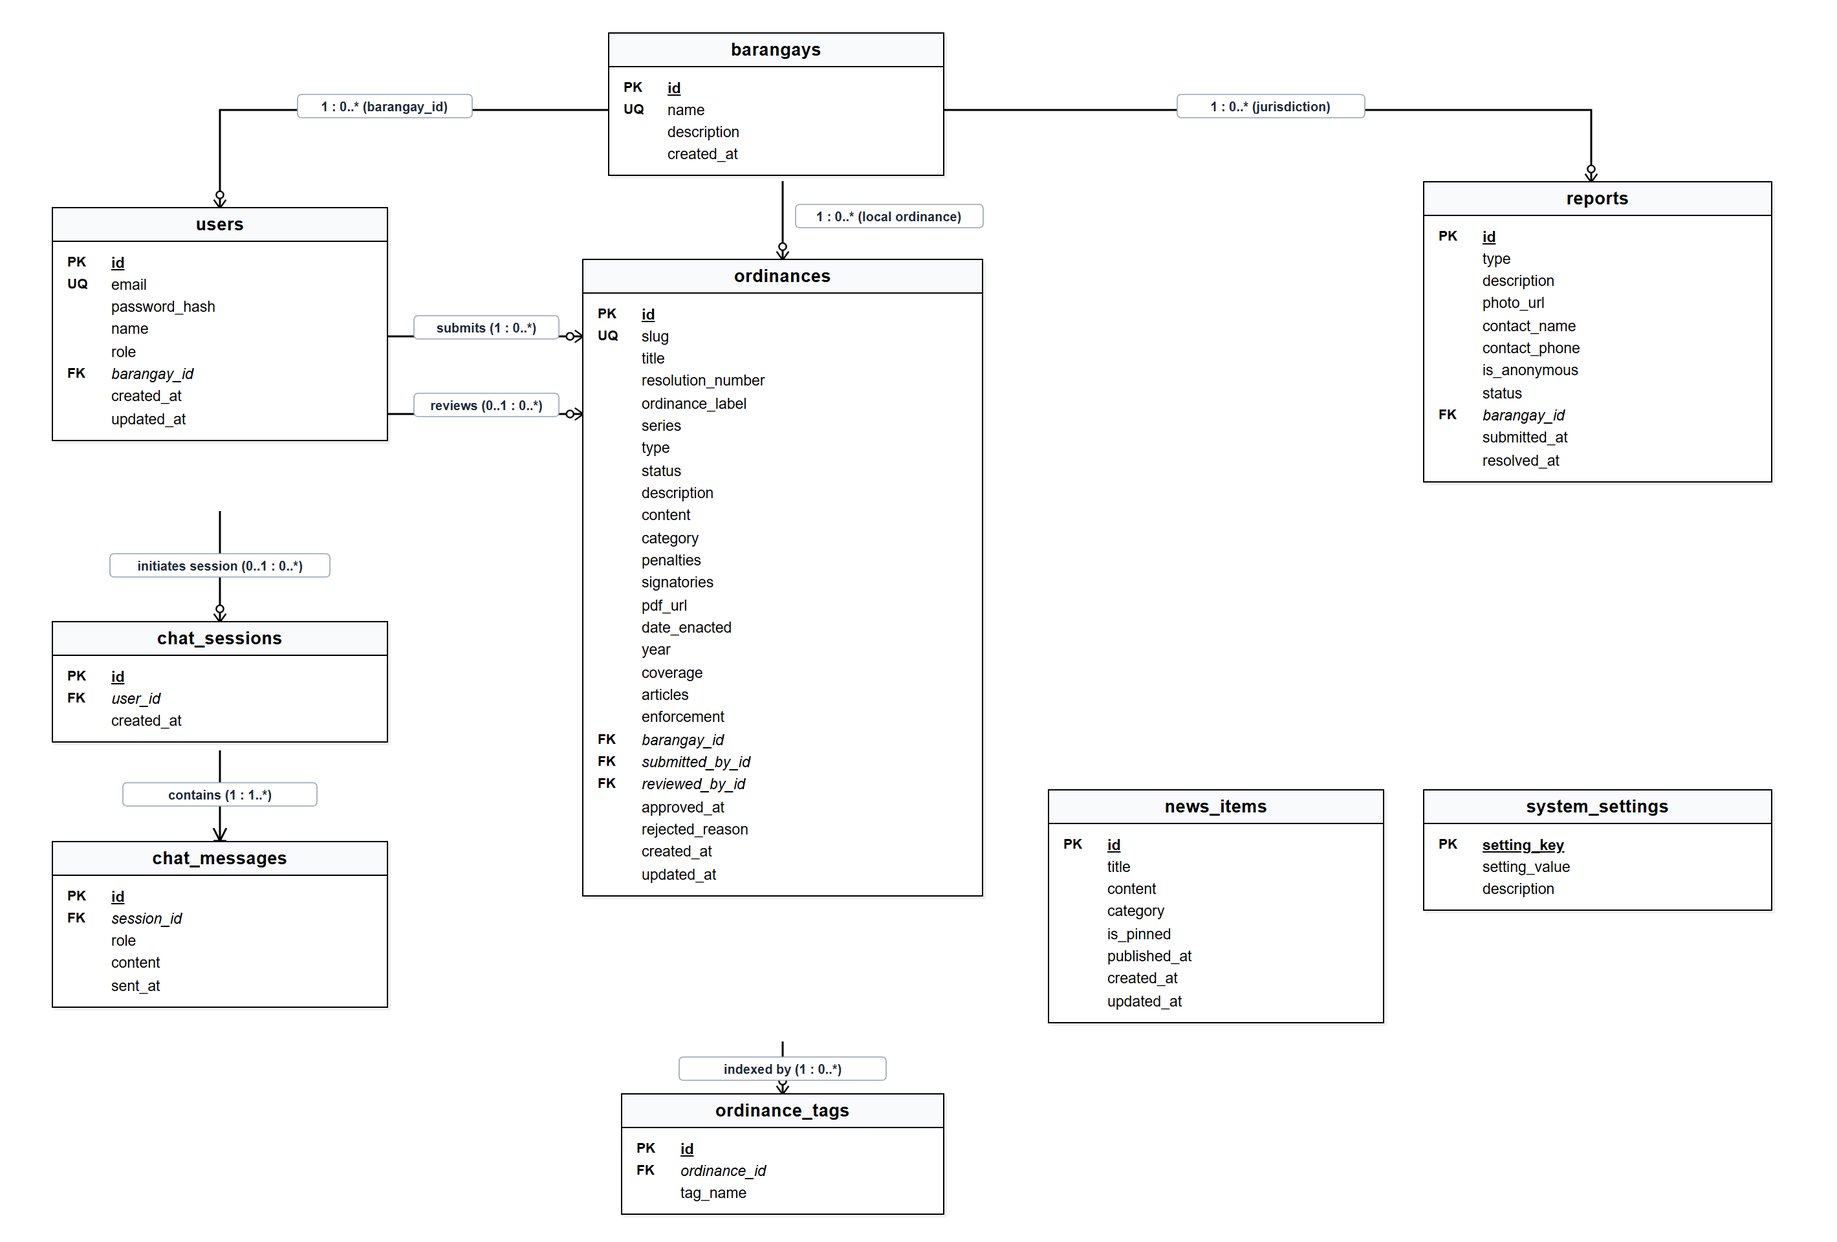
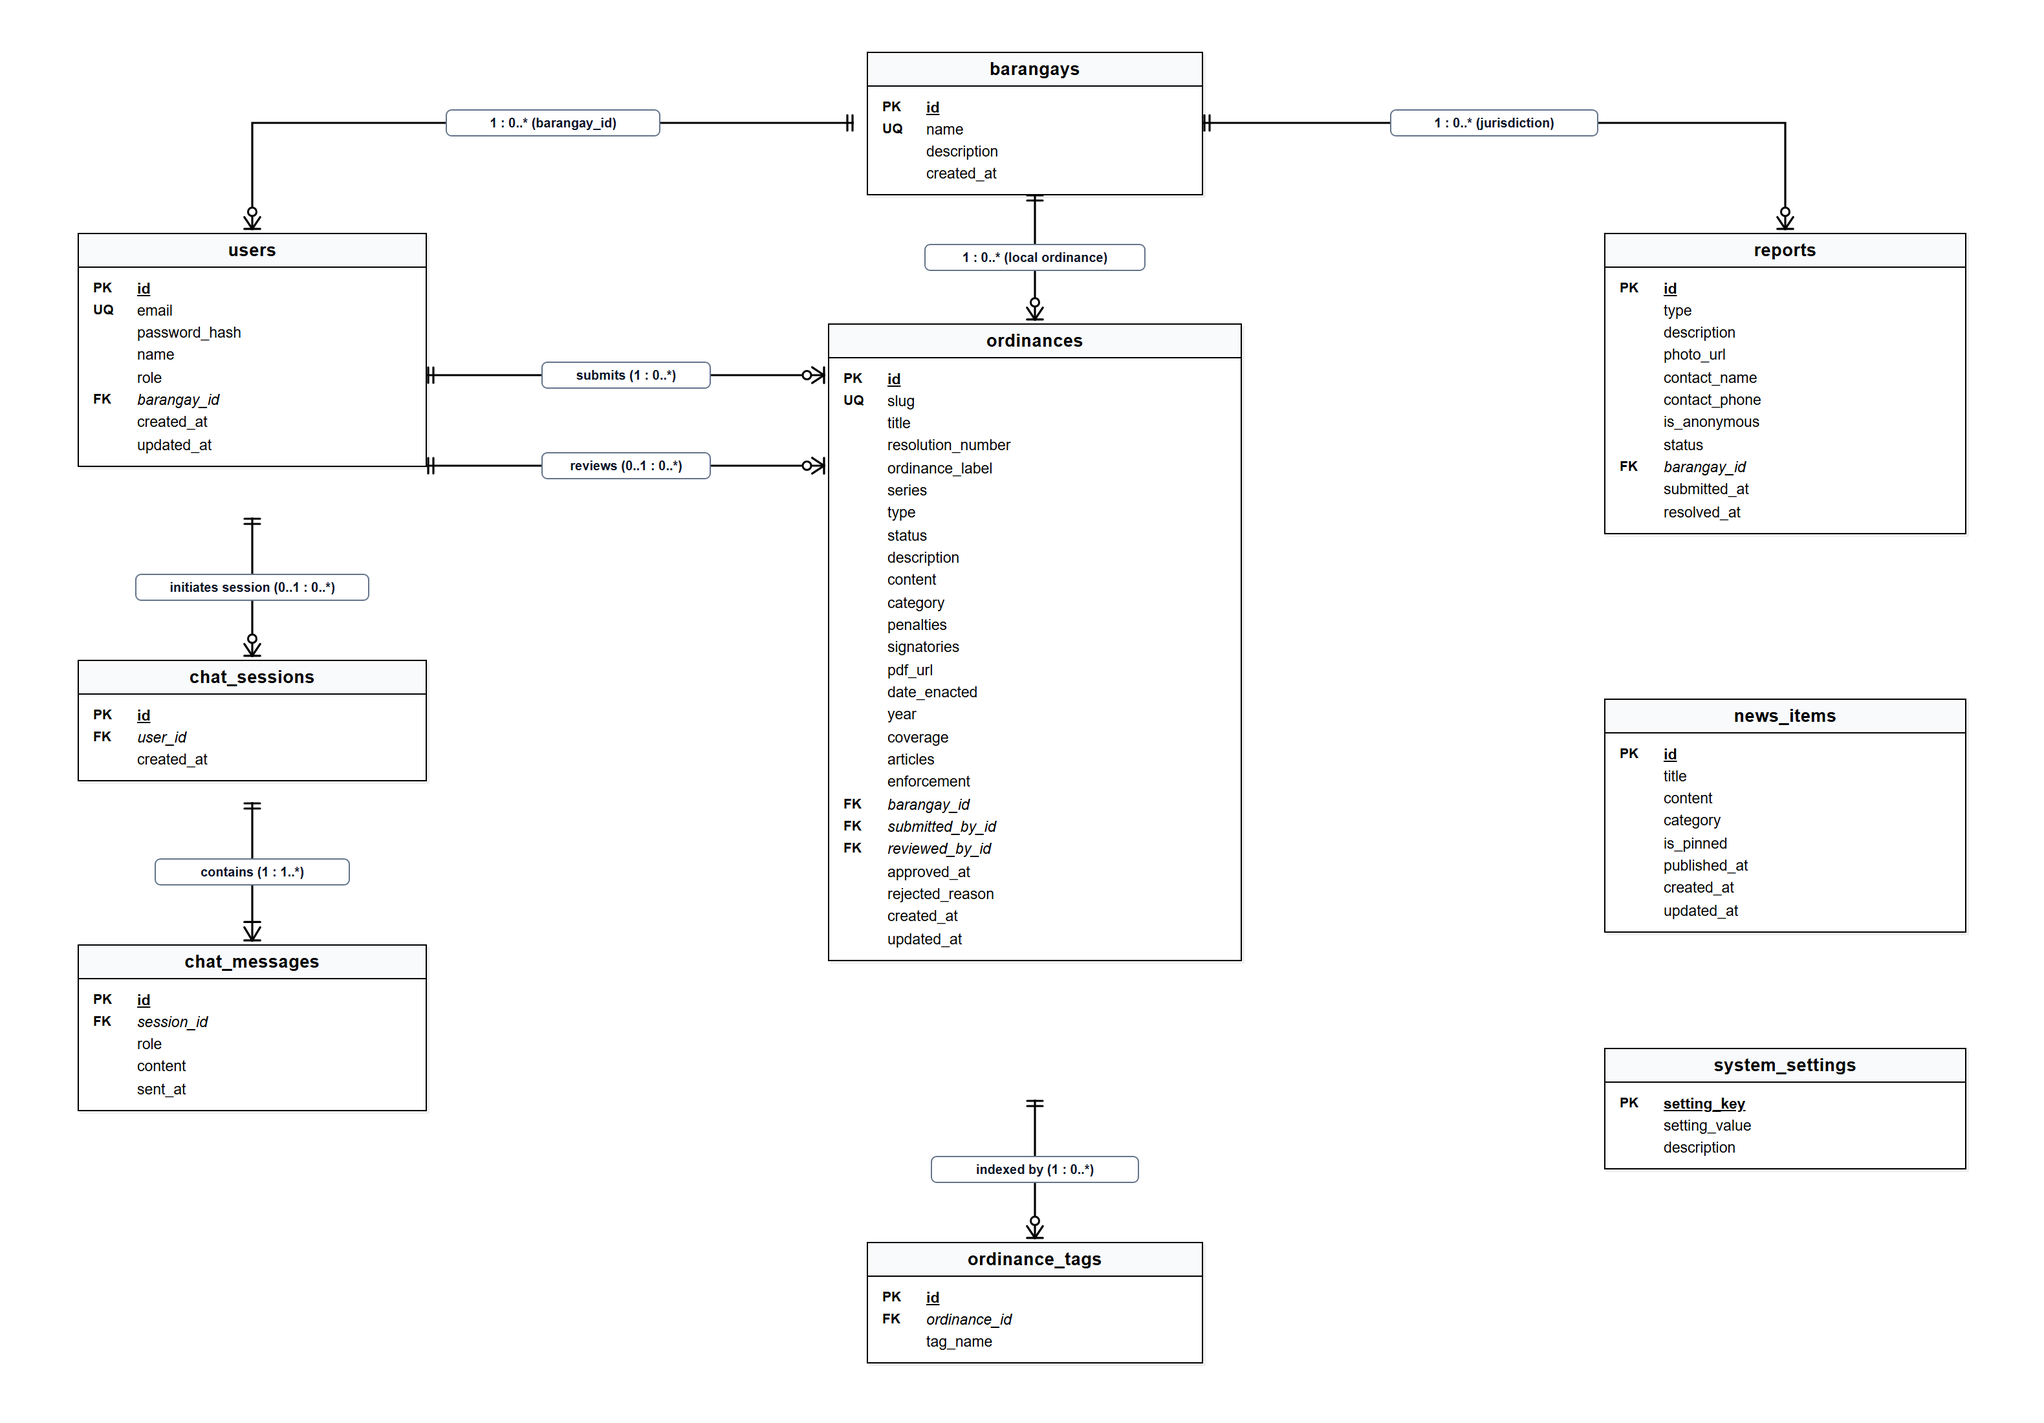
fix(erd): fix cut-off arrows and align action badges to arrow midpoints

diff --git a/docs/normalization/html/00_erd.html b/docs/normalization/html/00_erd.html
@@ -12,7 +12,7 @@
     body {
       background-color: #ffffff;
       font-family: Arial, "Helvetica Neue", Helvetica, sans-serif;
-      padding: 25px;
+      padding: 30px;
       display: flex;
       justify-content: center;
       align-items: center;
@@ -20,17 +20,17 @@
     }
     .erd-container {
       position: relative;
-      width: 1420px;
-      height: 960px;
+      width: 1580px;
+      height: 1100px;
       background: #ffffff;
     }
     svg.connector-layer {
       position: absolute;
       top: 0;
       left: 0;
-      width: 1420px;
-      height: 960px;
-      z-index: 1;
+      width: 1580px;
+      height: 1100px;
+      z-index: 5; /* Render ON TOP of entity boxes so arrows are never cut off */
       pointer-events: none;
     }
     .entity-box {
@@ -76,15 +76,16 @@
       font-style: italic;
     }
     .rel-badge {
+      font-family: Arial, sans-serif;
       font-size: 10px;
       font-weight: bold;
-      fill: #1e293b;
+      fill: #0f172a;
     }
     .rel-bg {
       fill: #ffffff;
-      stroke: #94a3b8;
-      stroke-width: 0.8;
-      rx: 3px;
+      stroke: #64748b;
+      stroke-width: 1;
+      rx: 4px;
     }
   </style>
 </head>
@@ -92,73 +93,128 @@
 
   <div class="erd-container">
 
-    <!-- SVG CONNECTOR LAYER -->
+    <!-- SVG CONNECTOR LAYER (z-index: 5) -->
     <svg class="connector-layer" xmlns="http://www.w3.org/2000/svg">
       <defs>
-        <!-- Marker: Arrow / Crow's Foot -->
-        <marker id="crowsfoot" viewBox="0 0 12 12" refX="10" refY="6" markerWidth="8" markerHeight="8" orient="auto">
-          <path d="M 0 1 L 10 6 L 0 11 M 10 1 L 10 11" fill="none" stroke="#000000" stroke-width="1.4" />
+        <!-- One-and-only-one: || (start marker) -->
+        <marker id="one-start" viewBox="0 0 16 16" refX="2" refY="8" markerWidth="10" markerHeight="10" orient="auto" overflow="visible">
+          <path d="M 3 2 L 3 14 M 7 2 L 7 14" fill="none" stroke="#000000" stroke-width="1.6" stroke-linecap="round" />
         </marker>
-        <marker id="one-one" viewBox="0 0 10 12" refX="2" refY="6" markerWidth="7" markerHeight="7" orient="auto">
-          <path d="M 2 1 L 2 11 M 6 1 L 6 11" fill="none" stroke="#000000" stroke-width="1.4" />
+
+        <!-- Zero-to-Many: Circle + Crow's foot (end marker) -->
+        <marker id="zero-many-end" viewBox="0 0 22 16" refX="19" refY="8" markerWidth="14" markerHeight="11" orient="auto" overflow="visible">
+          <circle cx="5" cy="8" r="3.2" fill="#ffffff" stroke="#000000" stroke-width="1.5" />
+          <path d="M 9 2 L 18 8 L 9 14 M 18 2 L 18 14" fill="none" stroke="#000000" stroke-width="1.6" stroke-linecap="round" stroke-linejoin="round" />
         </marker>
-        <marker id="zero-many" viewBox="0 0 16 12" refX="14" refY="6" markerWidth="10" markerHeight="10" orient="auto">
-          <circle cx="4" cy="6" r="3" fill="#ffffff" stroke="#000000" stroke-width="1.3" />
-          <path d="M 8 1 L 15 6 L 8 11 M 15 1 L 15 11" fill="none" stroke="#000000" stroke-width="1.3" />
+
+        <!-- One-to-Many: Bar + Crow's foot (end marker) -->
+        <marker id="one-many-end" viewBox="0 0 22 16" refX="19" refY="8" markerWidth="14" markerHeight="11" orient="auto" overflow="visible">
+          <path d="M 4 2 L 4 14 M 8 2 L 18 8 L 8 14 M 18 2 L 18 14" fill="none" stroke="#000000" stroke-width="1.6" stroke-linecap="round" stroke-linejoin="round" />
         </marker>
       </defs>
 
-      <!-- 1. BARANGAYS to USERS (1 : 0..*) -->
-      <!-- From (470, 85) -> (170, 85) -> (170, 160) -->
-      <path d="M 470 85 L 170 85 L 170 160" fill="none" stroke="#000000" stroke-width="1.5" marker-end="url(#zero-many)" />
-      <rect x="230" y="73" width="135" height="18" class="rel-bg" />
-      <text x="297" y="86" text-anchor="middle" class="rel-badge">1 : 0..* (barangay_id)</text>
+      <!-- ==========================================
+           1. BARANGAYS to USERS
+           From (660, 95) -> (195, 95) -> (195, 178)
+           Horizontal gap: 660 to 195. Midpoint = 427.5
+           ========================================== -->
+      <path d="M 660 95 L 195 95 L 195 178" fill="none" stroke="#000000" stroke-width="1.6" marker-start="url(#one-start)" marker-end="url(#zero-many-end)" />
+      <!-- Centered Badge on Horizontal Segment at (427.5, 95) -->
+      <g>
+        <rect x="345" y="85" width="165" height="20" class="rel-bg" />
+        <text x="427.5" y="95" dominant-baseline="central" text-anchor="middle" class="rel-badge">1 : 0..* (barangay_id)</text>
+      </g>
 
-      <!-- 2. BARANGAYS to ORDINANCES (1 : 0..*) -->
-      <!-- From (605, 140) -> (605, 200) -->
-      <path d="M 605 140 L 605 200" fill="none" stroke="#000000" stroke-width="1.5" marker-end="url(#zero-many)" />
-      <rect x="615" y="158" width="145" height="18" class="rel-bg" />
-      <text x="687" y="171" text-anchor="middle" class="rel-badge">1 : 0..* (local ordinance)</text>
+      <!-- ==========================================
+           2. BARANGAYS to ORDINANCES
+           From (800, 150) -> (800, 248)
+           Vertical line. Midpoint = 199
+           ========================================== -->
+      <path d="M 800 150 L 800 248" fill="none" stroke="#000000" stroke-width="1.6" marker-start="url(#one-start)" marker-end="url(#zero-many-end)" />
+      <!-- Centered Badge at (800, 199) -->
+      <g>
+        <rect x="715" y="189" width="170" height="20" class="rel-bg" />
+        <text x="800" y="199" dominant-baseline="central" text-anchor="middle" class="rel-badge">1 : 0..* (local ordinance)</text>
+      </g>
 
-      <!-- 3. BARANGAYS to REPORTS (1 : 0..*) -->
-      <!-- From (730, 85) -> (1230, 85) -> (1230, 140) -->
-      <path d="M 730 85 L 1230 85 L 1230 140" fill="none" stroke="#000000" stroke-width="1.5" marker-end="url(#zero-many)" />
-      <rect x="910" y="73" width="145" height="18" class="rel-bg" />
-      <text x="982" y="86" text-anchor="middle" class="rel-badge">1 : 0..* (jurisdiction)</text>
+      <!-- ==========================================
+           3. BARANGAYS to REPORTS
+           From (930, 95) -> (1380, 95) -> (1380, 178)
+           Horizontal gap: 930 to 1380. Midpoint = 1155
+           ========================================== -->
+      <path d="M 930 95 L 1380 95 L 1380 178" fill="none" stroke="#000000" stroke-width="1.6" marker-start="url(#one-start)" marker-end="url(#zero-many-end)" />
+      <!-- Centered Badge at (1155, 95) -->
+      <g>
+        <rect x="1075" y="85" width="160" height="20" class="rel-bg" />
+        <text x="1155" y="95" dominant-baseline="central" text-anchor="middle" class="rel-badge">1 : 0..* (jurisdiction)</text>
+      </g>
 
-      <!-- 4. USERS to ORDINANCES [submits] (1 : 0..*) -->
-      <!-- From (300, 260) -> (450, 260) -->
-      <path d="M 300 260 L 450 260" fill="none" stroke="#000000" stroke-width="1.5" marker-end="url(#zero-many)" />
-      <rect x="320" y="244" width="112" height="18" class="rel-bg" />
-      <text x="376" y="257" text-anchor="middle" class="rel-badge">submits (1 : 0..*)</text>
+      <!-- ==========================================
+           4. USERS to ORDINANCES [submits]
+           From (330, 290) -> (638, 290)
+           Horizontal line. Gap = 330 to 638. Midpoint = 484
+           ========================================== -->
+      <path d="M 330 290 L 638 290" fill="none" stroke="#000000" stroke-width="1.6" marker-start="url(#one-start)" marker-end="url(#zero-many-end)" />
+      <!-- Centered Badge at (484, 290) -->
+      <g>
+        <rect x="419" y="280" width="130" height="20" class="rel-bg" />
+        <text x="484" y="290" dominant-baseline="central" text-anchor="middle" class="rel-badge">submits (1 : 0..*)</text>
+      </g>
 
-      <!-- 5. USERS to ORDINANCES [reviews] (1 : 0..*) -->
-      <!-- From (300, 320) -> (450, 320) -->
-      <path d="M 300 320 L 450 320" fill="none" stroke="#000000" stroke-width="1.5" marker-end="url(#zero-many)" />
-      <rect x="320" y="304" width="112" height="18" class="rel-bg" />
-      <text x="376" y="317" text-anchor="middle" class="rel-badge">reviews (0..1 : 0..*)</text>
+      <!-- ==========================================
+           5. USERS to ORDINANCES [reviews]
+           From (330, 360) -> (638, 360)
+           Horizontal line. Gap = 330 to 638. Midpoint = 484
+           ========================================== -->
+      <path d="M 330 360 L 638 360" fill="none" stroke="#000000" stroke-width="1.6" marker-start="url(#one-start)" marker-end="url(#zero-many-end)" />
+      <!-- Centered Badge at (484, 360) -->
+      <g>
+        <rect x="419" y="350" width="130" height="20" class="rel-bg" />
+        <text x="484" y="360" dominant-baseline="central" text-anchor="middle" class="rel-badge">reviews (0..1 : 0..*)</text>
+      </g>
 
-      <!-- 6. USERS to CHAT_SESSIONS (0..1 : 0..*) -->
-      <!-- From (170, 395) -> (170, 480) -->
-      <path d="M 170 395 L 170 480" fill="none" stroke="#000000" stroke-width="1.5" marker-end="url(#zero-many)" />
-      <rect x="85" y="428" width="170" height="18" class="rel-bg" />
-      <text x="170" y="441" text-anchor="middle" class="rel-badge">initiates session (0..1 : 0..*)</text>
+      <!-- ==========================================
+           6. USERS to CHAT_SESSIONS [initiates]
+           From (195, 400) -> (195, 508)
+           Vertical line. Gap = 400 to 508. Midpoint = 454
+           ========================================== -->
+      <path d="M 195 400 L 195 508" fill="none" stroke="#000000" stroke-width="1.6" marker-start="url(#one-start)" marker-end="url(#zero-many-end)" />
+      <!-- Centered Badge at (195, 454) -->
+      <g>
+        <rect x="105" y="444" width="180" height="20" class="rel-bg" />
+        <text x="195" y="454" dominant-baseline="central" text-anchor="middle" class="rel-badge">initiates session (0..1 : 0..*)</text>
+      </g>
 
-      <!-- 7. CHAT_SESSIONS to CHAT_MESSAGES (1 : 1..*) -->
-      <!-- From (170, 580) -> (170, 650) -->
-      <path d="M 170 580 L 170 650" fill="none" stroke="#000000" stroke-width="1.5" marker-end="url(#crowsfoot)" />
-      <rect x="95" y="605" width="150" height="18" class="rel-bg" />
-      <text x="170" y="618" text-anchor="middle" class="rel-badge">contains (1 : 1..*)</text>
+      <!-- ==========================================
+           7. CHAT_SESSIONS to CHAT_MESSAGES [contains]
+           From (195, 620) -> (195, 728)
+           Vertical line. Gap = 620 to 728. Midpoint = 674
+           ========================================== -->
+      <path d="M 195 620 L 195 728" fill="none" stroke="#000000" stroke-width="1.6" marker-start="url(#one-start)" marker-end="url(#one-many-end)" />
+      <!-- Centered Badge at (195, 674) -->
+      <g>
+        <rect x="120" y="664" width="150" height="20" class="rel-bg" />
+        <text x="195" y="674" dominant-baseline="central" text-anchor="middle" class="rel-badge">contains (1 : 1..*)</text>
+      </g>
 
-      <!-- 8. ORDINANCES to ORDINANCE_TAGS (1 : 0..*) -->
-      <!-- From (605, 805) -> (605, 845) -->
-      <path d="M 605 805 L 605 845" fill="none" stroke="#000000" stroke-width="1.5" marker-end="url(#zero-many)" />
-      <rect x="525" y="817" width="160" height="18" class="rel-bg" />
-      <text x="605" y="830" text-anchor="middle" class="rel-badge">indexed by (1 : 0..*)</text>
+      <!-- ==========================================
+           8. ORDINANCES to ORDINANCE_TAGS [indexed by]
+           From (800, 850) -> (800, 958)
+           Vertical line. Gap = 850 to 958. Midpoint = 904
+           ========================================== -->
+      <path d="M 800 850 L 800 958" fill="none" stroke="#000000" stroke-width="1.6" marker-start="url(#one-start)" marker-end="url(#zero-many-end)" />
+      <!-- Centered Badge at (800, 904) -->
+      <g>
+        <rect x="720" y="894" width="160" height="20" class="rel-bg" />
+        <text x="800" y="904" dominant-baseline="central" text-anchor="middle" class="rel-badge">indexed by (1 : 0..*)</text>
+      </g>
     </svg>
 
-    <!-- ENTITY 1: BARANGAYS (Center Top) -->
-    <div class="entity-box" style="left: 470px; top: 25px; width: 260px;">
+    <!-- ==========================================
+         ENTITY 1: BARANGAYS (Top Center)
+         left: 670px, top: 40px, width: 260px, height: 110px
+         ========================================== -->
+    <div class="entity-box" style="left: 670px; top: 40px; width: 260px;">
       <div class="entity-header">barangays</div>
       <div class="entity-body">
         <div class="row"><div class="key-col">PK</div><div class="attr-col pk">id</div></div>
@@ -168,8 +224,11 @@
       </div>
     </div>
 
-    <!-- ENTITY 2: USERS (Left Top) -->
-    <div class="entity-box" style="left: 40px; top: 160px; width: 260px;">
+    <!-- ==========================================
+         ENTITY 2: USERS (Left Upper)
+         left: 60px, top: 180px, width: 270px, height: 220px
+         ========================================== -->
+    <div class="entity-box" style="left: 60px; top: 180px; width: 270px;">
       <div class="entity-header">users</div>
       <div class="entity-body">
         <div class="row"><div class="key-col">PK</div><div class="attr-col pk">id</div></div>
@@ -183,8 +242,11 @@
       </div>
     </div>
 
-    <!-- ENTITY 3: ORDINANCES (Center Middle) -->
-    <div class="entity-box" style="left: 450px; top: 200px; width: 310px;">
+    <!-- ==========================================
+         ENTITY 3: ORDINANCES (Center Middle)
+         left: 640px, top: 250px, width: 320px, height: 600px
+         ========================================== -->
+    <div class="entity-box" style="left: 640px; top: 250px; width: 320px;">
       <div class="entity-header">ordinances</div>
       <div class="entity-body">
         <div class="row"><div class="key-col">PK</div><div class="attr-col pk">id</div></div>
@@ -216,8 +278,11 @@
       </div>
     </div>
 
-    <!-- ENTITY 4: ORDINANCE_TAGS (Center Bottom) -->
-    <div class="entity-box" style="left: 480px; top: 845px; width: 250px;">
+    <!-- ==========================================
+         ENTITY 4: ORDINANCE_TAGS (Center Bottom)
+         left: 670px, top: 960px, width: 260px, height: 95px
+         ========================================== -->
+    <div class="entity-box" style="left: 670px; top: 960px; width: 260px;">
       <div class="entity-header">ordinance_tags</div>
       <div class="entity-body">
         <div class="row"><div class="key-col">PK</div><div class="attr-col pk">id</div></div>
@@ -226,8 +291,11 @@
       </div>
     </div>
 
-    <!-- ENTITY 5: REPORTS (Right Middle) -->
-    <div class="entity-box" style="left: 1100px; top: 140px; width: 270px;">
+    <!-- ==========================================
+         ENTITY 5: REPORTS (Right Upper)
+         left: 1240px, top: 180px, width: 280px, height: 280px
+         ========================================== -->
+    <div class="entity-box" style="left: 1240px; top: 180px; width: 280px;">
       <div class="entity-header">reports</div>
       <div class="entity-body">
         <div class="row"><div class="key-col">PK</div><div class="attr-col pk">id</div></div>
@@ -244,8 +312,11 @@
       </div>
     </div>
 
-    <!-- ENTITY 6: CHAT_SESSIONS (Left Middle) -->
-    <div class="entity-box" style="left: 40px; top: 480px; width: 260px;">
+    <!-- ==========================================
+         ENTITY 6: CHAT_SESSIONS (Left Middle)
+         left: 60px, top: 510px, width: 270px, height: 110px
+         ========================================== -->
+    <div class="entity-box" style="left: 60px; top: 510px; width: 270px;">
       <div class="entity-header">chat_sessions</div>
       <div class="entity-body">
         <div class="row"><div class="key-col">PK</div><div class="attr-col pk">id</div></div>
@@ -254,8 +325,11 @@
       </div>
     </div>
 
-    <!-- ENTITY 7: CHAT_MESSAGES (Left Bottom) -->
-    <div class="entity-box" style="left: 40px; top: 650px; width: 260px;">
+    <!-- ==========================================
+         ENTITY 7: CHAT_MESSAGES (Left Bottom)
+         left: 60px, top: 730px, width: 270px, height: 145px
+         ========================================== -->
+    <div class="entity-box" style="left: 60px; top: 730px; width: 270px;">
       <div class="entity-header">chat_messages</div>
       <div class="entity-body">
         <div class="row"><div class="key-col">PK</div><div class="attr-col pk">id</div></div>
@@ -266,8 +340,11 @@
       </div>
     </div>
 
-    <!-- ENTITY 8: NEWS_ITEMS (Right Bottom - Left) -->
-    <div class="entity-box" style="left: 810px; top: 610px; width: 260px;">
+    <!-- ==========================================
+         ENTITY 8: NEWS_ITEMS (Right Lower)
+         left: 1240px, top: 540px, width: 280px, height: 205px
+         ========================================== -->
+    <div class="entity-box" style="left: 1240px; top: 540px; width: 280px;">
       <div class="entity-header">news_items</div>
       <div class="entity-body">
         <div class="row"><div class="key-col">PK</div><div class="attr-col pk">id</div></div>
@@ -281,8 +358,11 @@
       </div>
     </div>
 
-    <!-- ENTITY 9: SYSTEM_SETTINGS (Right Bottom - Right) -->
-    <div class="entity-box" style="left: 1100px; top: 610px; width: 270px;">
+    <!-- ==========================================
+         ENTITY 9: SYSTEM_SETTINGS (Right Bottom)
+         left: 1240px, top: 810px, width: 280px, height: 120px
+         ========================================== -->
+    <div class="entity-box" style="left: 1240px; top: 810px; width: 280px;">
       <div class="entity-header">system_settings</div>
       <div class="entity-body">
         <div class="row"><div class="key-col">PK</div><div class="attr-col pk">setting_key</div></div>

diff --git a/docs/normalization/generate_normalization_diagrams.js b/docs/normalization/generate_normalization_diagrams.js
@@ -9,7 +9,7 @@ async function renderDiagrams() {
   });
 
   const files = [
-    { html: '00_erd.html', output: '00_ERD_Cabanatuan_Ordinance_Portal.png', width: 1500, height: 1040 },
+    { html: '00_erd.html', output: '00_ERD_Cabanatuan_Ordinance_Portal.png', width: 1640, height: 1160 },
     { html: '01_unf.html', output: '01_UNF_Cabanatuan_Ordinance_Portal.png', width: 1040, height: 1100 },
     { html: '02_1nf.html', output: '02_1NF_Cabanatuan_Ordinance_Portal.png', width: 1300, height: 980 },
     { html: '03_2nf.html', output: '03_2NF_Cabanatuan_Ordinance_Portal.png', width: 1300, height: 980 },
